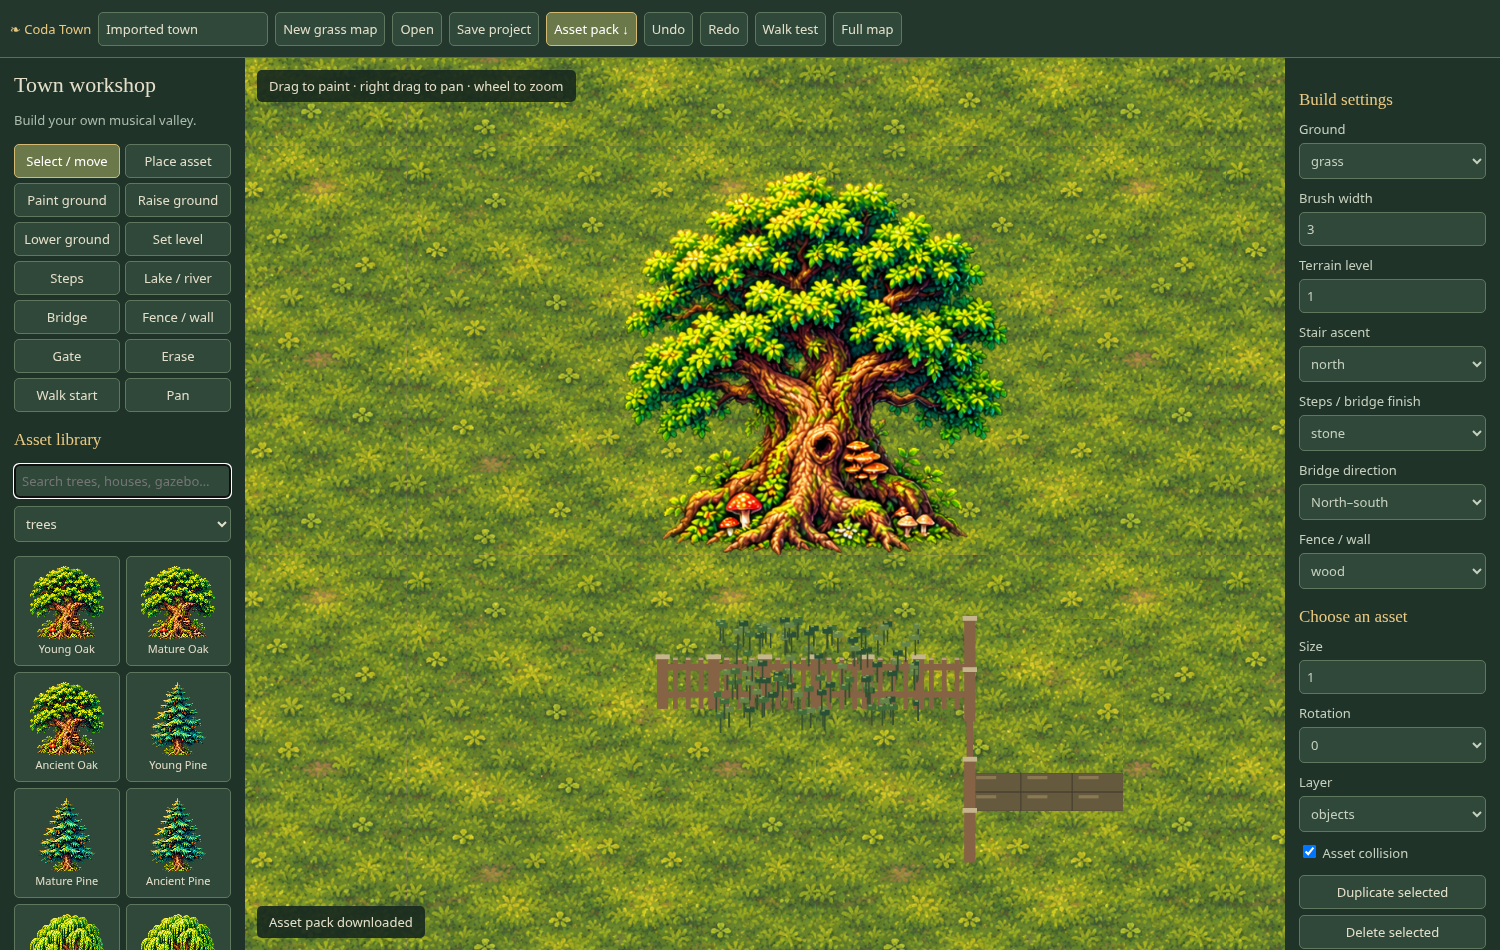
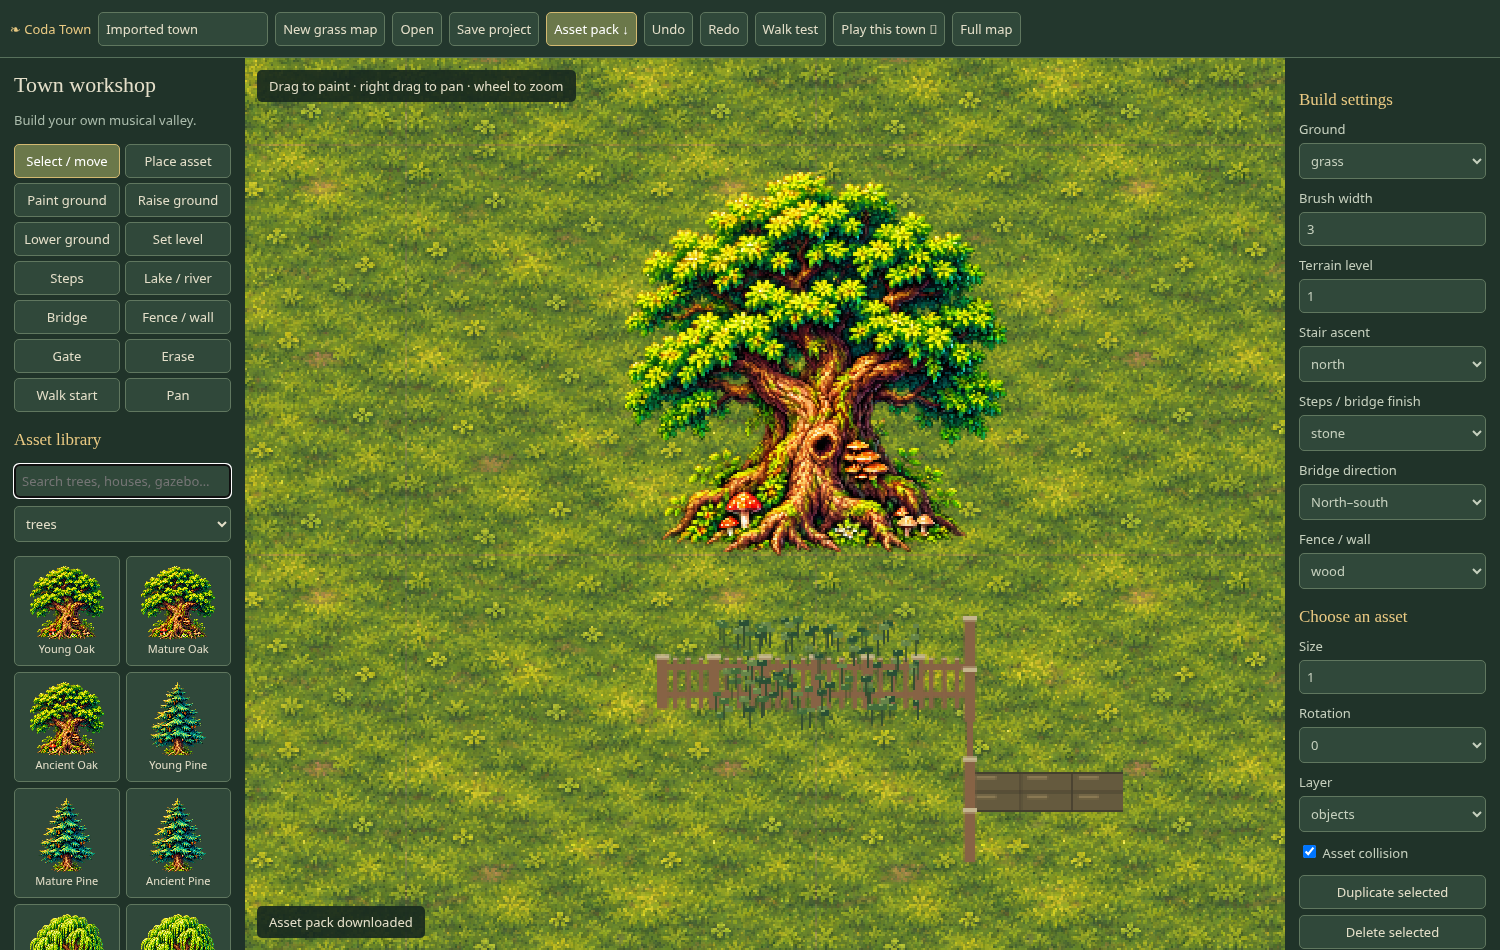
Share authored town graphics and collision between builder and gameplay

diff --git a/town/builder/index.html b/town/builder/index.html
@@ -1,3 +1,3 @@
 <!doctype html><html lang="en"><head><meta charset="utf-8"><meta name="viewport" content="width=device-width,initial-scale=1"><title>Coda Town · Builder</title><link rel="stylesheet" href="builder.css"></head><body>
-<header><a href="../">❧ Coda Town</a><input id="name" value="My Coda Town" aria-label="Town name" maxlength="100"><button id="new">New grass map</button><button id="open">Open</button><button id="save">Save project</button><button id="pack">Asset pack ↓</button><button id="undo">Undo</button><button id="redo">Redo</button><button id="walk">Walk test</button><button id="fit">Full map</button></header>
-<main><aside><h1>Town workshop</h1><p>Build your own musical valley.</p><div id="tools"></div><h2>Asset library</h2><input id="search" placeholder="Search trees, houses, gazebo…" aria-label="Search assets"><select id="category" aria-label="Asset category"><option value="">All assets</option></select><div id="library"></div></aside><section id="viewport"><canvas id="map" tabindex="0" aria-label="Town building canvas"></canvas><div id="hint">Drag to paint · right drag to pan · wheel to zoom</div><div id="status" role="status">Loading artwork…</div></section><aside id="inspector"><h2>Build settings</h2><label>Ground<select id="surface"></select></label><label>Brush width <input id="brush" type="number" min="1" max="15" value="3"></label><label>Terrain level <input id="level" type="number" min="0" max="8" value="1"></label><label>Stair ascent<select id="direction"></select></label><label>Steps / bridge finish<select id="finish"><option>stone</option><option>wood</option><option>brick</option></select></label><label>Bridge direction<select id="bridge"><option value="ns">North–south</option><option value="ew">East–west</option></select></label><label>Fence / wall<select id="barrier"></select></label><h2 id="assetName">Choose an asset</h2><label>Size<input id="scale" type="number" min=".25" max="3" step=".25" value="1"></label><label>Rotation<select id="rotation"><option>0</option><option>90</option><option>180</option><option>270</option></select></label><label>Layer<select id="layer"><option>objects</option><option>overgrowth</option><option>ground</option></select></label><label><input id="collision" type="checkbox" checked> Asset collision</label><button id="duplicate">Duplicate selected</button><button id="delete">Delete selected</button><label><input id="grid" type="checkbox"> Grid</label><label><input id="showCollision" type="checkbox"> Show collision</label><p>Raised ground blocks walking at cliff edges. Steps climb one level toward the arrow. Water blocks walking; bridges cross it. E opens gates during walk test.</p><p>Fences snap to cell edges. Drag an L to join corners. Foliage uses the overgrowth layer.</p><p>Projects autosave in this browser. Save a project file for a portable backup.</p></aside></main><input id="file" type="file" accept=".json" hidden><script src="../../character-renderer.js"></script><script type="module" src="app.mjs"></script></body></html>
+<header><a href="../">❧ Coda Town</a><input id="name" value="My Coda Town" aria-label="Town name" maxlength="100"><button id="new">New grass map</button><button id="open">Open</button><button id="save">Save project</button><button id="pack">Asset pack ↓</button><button id="undo">Undo</button><button id="redo">Redo</button><button id="walk">Walk test</button><button id="play">Play this town ↗</button><button id="fit">Full map</button></header>
+<main><aside><h1>Town workshop</h1><p>Build your own musical valley.</p><div id="tools"></div><h2>Asset library</h2><input id="search" placeholder="Search trees, houses, gazebo…" aria-label="Search assets"><select id="category" aria-label="Asset category"><option value="">All assets</option></select><div id="library"></div></aside><section id="viewport"><canvas id="map" tabindex="0" aria-label="Town building canvas"></canvas><div id="hint">Drag to paint · right drag to pan · wheel to zoom</div><div id="status" role="status">Loading artwork…</div></section><aside id="inspector"><h2>Build settings</h2><label>Ground<select id="surface"></select></label><label>Brush width <input id="brush" type="number" min="1" max="15" value="3"></label><label>Terrain level <input id="level" type="number" min="0" max="8" value="1"></label><label>Stair ascent<select id="direction"></select></label><label>Steps / bridge finish<select id="finish"><option>stone</option><option>wood</option><option>brick</option></select></label><label>Bridge direction<select id="bridge"><option value="ns">North–south</option><option value="ew">East–west</option></select></label><label>Fence / wall<select id="barrier"></select></label><h2 id="assetName">Choose an asset</h2><label>Size<input id="scale" type="number" min=".25" max="3" step=".25" value="1"></label><label>Rotation<select id="rotation"><option>0</option><option>90</option><option>180</option><option>270</option></select></label><label>Layer<select id="layer"><option>objects</option><option>overgrowth</option><option>ground</option></select></label><label><input id="collision" type="checkbox" checked> Asset collision</label><button id="duplicate">Duplicate selected</button><button id="delete">Delete selected</button><label><input id="grid" type="checkbox"> Grid</label><label><input id="showCollision" type="checkbox"> Show collision</label><p>Raised ground blocks walking at cliff edges. Steps climb one level toward the arrow. Water blocks walking; bridges cross it. E opens gates during walk test.</p><p>Fences snap to cell edges. Drag an L to join corners. Foliage uses the overgrowth layer.</p><p>Projects autosave in this browser. Save a project file for a portable backup.</p></aside></main><input id="file" type="file" accept=".json" hidden><script src="../../character-renderer.js"></script><script type="module" src="app.mjs?v=shared-world-1"></script></body></html>

diff --git a/town/index.html b/town/index.html
@@ -1,10 +1,10 @@
 <!doctype html>
 <html lang="en"><head><meta charset="utf-8"><meta name="viewport" content="width=device-width,initial-scale=1,maximum-scale=1"><title>Coda Town</title><link rel="stylesheet" href="town.css"></head>
 <body><canvas id="world" tabindex="0" aria-label="Coda Town. Move with arrow keys or WASD. Press E to interact, M for the map, Escape to close."></canvas>
-<header><div class="brand"><span class="sprig">❧</span><div><small>A LITTLE FURTHER FROM HOME</small><h1>Coda Town</h1></div></div><nav><a href="builder/" style="color:#ead6a2;padding:10px">Town Builder</a><button id="mapButton" disabled>Map <kbd>M</kbd></button><button id="helpButton" disabled aria-label="Town controls">?</button><button id="leaveButton" disabled>Back to arcade ↗</button></nav></header>
+<header><div class="brand"><span class="sprig">❧</span><div><small>A LITTLE FURTHER FROM HOME</small><h1>Coda Town</h1></div></div><nav><a href="?map=builder" style="color:#ead6a2;padding:10px">Play built town</a><a href="builder/" style="color:#ead6a2;padding:10px">Town Builder</a><button id="mapButton" disabled>Map <kbd>M</kbd></button><button id="helpButton" disabled aria-label="Town controls">?</button><button id="leaveButton" disabled>Back to arcade ↗</button></nav></header>
 <aside id="location"><span id="district">Coda Commons</span><small id="placeDetail">River paths & familiar faces</small></aside>
 <div id="prompt" role="status">Opening the valley…</div><footer><span>WASD / arrows <b>Walk</b></span><span>Shift <b>Run</b></span><span>E <b>Talk / enter</b></span><span>Scroll <b>Zoom</b></span><span id="discovery">0 / 8 places found</span></footer>
 <div id="touch"><div class="dpad"><button data-key="ArrowUp" aria-label="Walk north">↑</button><button data-key="ArrowLeft" aria-label="Walk west">←</button><button data-key="ArrowDown" aria-label="Walk south">↓</button><button data-key="ArrowRight" aria-label="Walk east">→</button></div><button id="touchAction" disabled>Interact</button></div>
 <dialog id="mapDialog"><div class="dialog-head"><div><small>FIND YOUR OWN WAY</small><h2>Around the valley</h2></div><button data-close aria-label="Close map">✕</button></div><p>Follow the straight streets, find the stone stairways, and explore the raised neighborhoods. Homes range from cottages to large courtyard houses.</p><canvas id="mapCanvas" width="960" height="720" aria-label="Town map with homes, paths, river, and current position"></canvas><div id="directory"></div></dialog>
 <dialog id="story"><div class="dialog-head"><h2 id="storyTitle"></h2><button data-close aria-label="Close conversation">✕</button></div><p id="storyText"></p><div id="storyActions"></div></dialog>
-<script src="../npc-visitors.js"></script><script src="../character-renderer.js"></script><script type="module" src="town.mjs"></script></body></html>
+<script src="../npc-visitors.js"></script><script src="../character-renderer.js"></script><script type="module" src="boot.mjs"></script></body></html>

diff --git a/town/world/browser.py b/town/world/browser.py
@@ -1,0 +1,44 @@
+"""Verify an authored map survives the editor-to-game handoff without art changes."""
+from functools import partial
+from http.server import SimpleHTTPRequestHandler,ThreadingHTTPServer
+from pathlib import Path
+import threading,json,base64
+from playwright.sync_api import sync_playwright
+ROOT=Path(__file__).resolve().parents[2]
+class Quiet(SimpleHTTPRequestHandler):
+ def log_message(self,*args):pass
+server=ThreadingHTTPServer(('127.0.0.1',0),partial(Quiet,directory=str(ROOT)))
+threading.Thread(target=server.serve_forever,daemon=True).start()
+base=f'http://127.0.0.1:{server.server_port}'
+fixture={'version':1,'name':'Shared engine test','spawn':{'x':8192,'y':6144},'cells':{},'edges':{},'objects':[]}
+for x in range(120,125):
+ for y in range(92,97):fixture['cells'][f'{x},{y}']={'surface':'cobble','level':2}
+for x in range(129,134):
+ for y in range(95,100):fixture['cells'][f'{x},{y}']={'surface':'water','level':0}
+for x in range(129,134):fixture['cells'][f'{x},97']['bridge']='ew'
+fixture['cells']['124,97']={'surface':'cobble','level':1,'stairs':'north','finish':'stone'}
+for x in range(125,129):fixture['edges'][f'h:{x}:100']={'style':'limestone','gate':False,'open':False}
+fixture['edges']['v:128:99']={'style':'iron','gate':True,'open':False}
+for i,(asset,x,y,layer) in enumerate([('trees-0-480',8650,6150,'objects'),('props-4-960',7400,6700,'objects'),('ivy-0',8110,6400,'overgrowth'),('music-square',9500,7600,'ground')]):fixture['objects'].append({'id':str(i),'asset':asset,'x':x,'y':y,'scale':1,'rotation':0,'layer':layer,'collision':asset!='ivy-0'})
+with sync_playwright() as p:
+ browser=p.chromium.launch(executable_path='/usr/bin/chromium',args=['--no-sandbox'])
+ context=browser.new_context(viewport={'width':1500,'height':950});page=context.new_page();errors=[]
+ page.on('pageerror',lambda e:errors.append(str(e)))
+ page.goto(base+'/town/builder/');page.wait_for_function('!!window.townBuilder')
+ page.locator('#file').set_input_files({'name':'map.json','mimeType':'application/json','buffer':json.dumps(fixture).encode()})
+ page.wait_for_function('townBuilder.project.name==="Shared engine test"')
+ # Compare actual terrain/objects with matched viewport/camera. No editor guides
+ # or animated actor: those are deliberately not part of the static scene.
+ snapshot='''async () => {const {render,resizeSurface}=await import('/town/world/runtime.mjs');const d=window.townBuilder?.project||window.townGame.project;const c=document.createElement('canvas');c.style.cssText='width:800px;height:600px;position:absolute;left:-10000px';document.body.append(c);const {ctx,width,height}=resizeSurface(c);render(ctx,d,{x:8192,y:6250,zoom:.8},width,height);const result=c.toDataURL();c.remove();return result;}'''
+ before=page.evaluate(snapshot)
+ page.locator('#play').click();page.wait_for_url('**/town/?map=builder');page.wait_for_function('!!window.townGame')
+ assert page.evaluate('JSON.stringify(townGame.project)')==json.dumps(fixture,separators=(',',':'))
+ after=page.evaluate(snapshot);assert before==after,'Editor and playable scene pixels differ'
+ assert page.locator('#world').evaluate('(c)=>c.width===Math.ceil(c.clientWidth/2)')
+ x=page.evaluate('townGame.player.x');page.keyboard.down('d');page.wait_for_timeout(200);page.keyboard.up('d');assert page.evaluate('townGame.player.x')>x
+ page.screenshot(path=str(ROOT/'docs/town-preview/builder-play.png'))
+ page.get_by_role('button',name='Edit town',exact=True).click();page.wait_for_function('window.townBuilder?.project.name==="Shared engine test"')
+ assert page.evaluate('townBuilder.project.objects.length')==4
+ assert not errors,errors
+ browser.close()
+server.shutdown();print('Shared engine checks passed: saved map playable, exact static scene pixel parity, matching pixel scale, movement, and return to editing.')

diff --git a/town/builder/README.md b/town/builder/README.md
@@ -1,6 +1,6 @@
 # Coda Town Builder
 
-Open `town/builder/`, or use **Town Builder** in Test Kitchen. New projects contain grass only on a 16,384 × 12,288 map. The existing playable town and Music Square remain available.
+Open `town/builder/`, or use **Town Builder** in Test Kitchen. Choose **Play this town** to save the current map and open its playable version at `town/?map=builder`; **Edit town** returns to the saved project. New projects contain grass only on a 16,384 × 12,288 map. The existing playable town and Music Square remain available.
 
 Choose an asset, then click the map. Select / move repositions objects; the inspector changes size, quarter-turn rotation, collision and layer. The library includes 15 tree size/species combinations, shrubs, 30 house combinations, a grand gazebo, furniture, musical decorations, landscape pieces and foliage overlays. Music Square is a complete placeable scene, with decorative walls baked into its artwork; add editable fencing with the fence tool. Houses retain their floor-area footprints; this editor does not yet connect placed doors to NPC interiors or friendship progress.
 
@@ -11,3 +11,7 @@ Ground tools paint grass, cobbles, dirt, wood, sand and water. Raise/lower chang
 Right drag pans, wheel zooms, Full map fits the map. Brush width controls terrain painting. Undo/redo tracks strokes. Projects autosave in IndexedDB on this origin/browser. **Save project** exports a portable JSON backup; **Open** validates and restores it. Asset pack downloads individual transparent PNGs, ground textures and anchor/collision metadata. Save local work before switching browsers or clearing site data.
 
 Validation: `node --test town/builder/model.test.mjs town/model.test.mjs`; `python3 town/builder/browser.py`; `python3 town/browser.py`.
+
+The editor and playable authored maps both use `town/world/` for the asset catalog, renderer, pixel resolution, project format, collision, spawn placement, movement, gates and camera height. Walk test uses those same functions. Editor guides (selection, grid, collision highlights and ghosts) are intentionally excluded from gameplay. Pixel comparison tests verify that static scenes match exactly with equal camera and viewport settings. The original handcrafted town remains a separate map; placed NPC home interiors are still not connected.
+
+Additional validation: `node --test town/world/physics.test.mjs`; `python3 town/world/browser.py`.

diff --git a/town/ART-DIRECTION.md b/town/ART-DIRECTION.md
@@ -48,3 +48,7 @@ source-art previews and actual application screenshots clearly distinguished.
 ### User-directed town building
 
 Keep the approved Music Square intact and available as a complete placeable scene. New editor maps start as grass, with no predetermined streets or buildings. Offer multiple tree species and sizes, connected wood/iron fencing, stone/brick/plaster walls, terrain stair finishes, and foliage overlays above fences. House variants retain their actual floor-area footprints. Keep the original playable town available while the builder develops independently.
+
+### Editor/game parity
+
+All builder-authored maps must use `town/world/` in both the builder and playable town route (`?map=builder`). Keep one asset catalog, renderer, terrain/asset collision implementation, movement, gate interaction, and pixel scale. Editor guides may overlay the scene; they must not alter the underlying game artwork. Changes to shared graphics apply to both views. Preserve saved version-1 editor projects. The original handcrafted town is available separately while authored-map NPC interiors remain future work.

diff --git a/docs/town-preview/README.md b/docs/town-preview/README.md
@@ -50,3 +50,9 @@ has reached the same artistic quality.
 The builder starts with grass only and preserves the approved Music Square as a placeable scene. Includes connected fences/walls, multiple trees and house footprints, terrain, stairs, water, bridges, collision walk testing and portable project/asset downloads.
 
 ![Town Builder — actual browser capture](builder.png)
+
+### Playable authored maps
+
+**Play this town** saves the editor map and opens it in the actual town route. The builder and authored-map gameplay now share their renderer, assets, pixel resolution and collision/movement rules. Static scene pixel parity is checked in the browser tests. The original handcrafted town remains available separately.
+
+![Authored map in gameplay — actual browser capture](builder-play.png)
